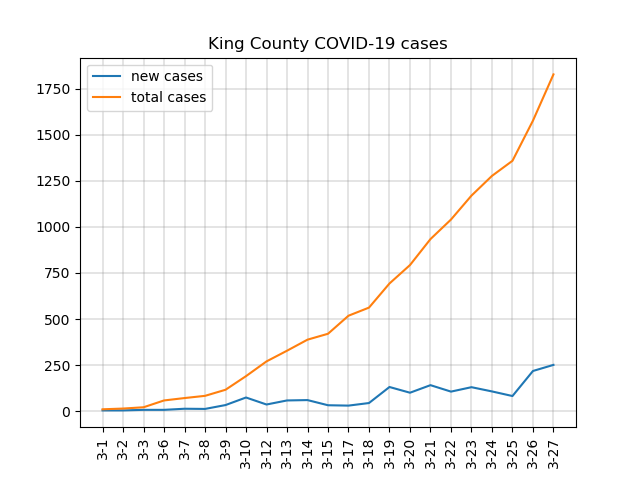
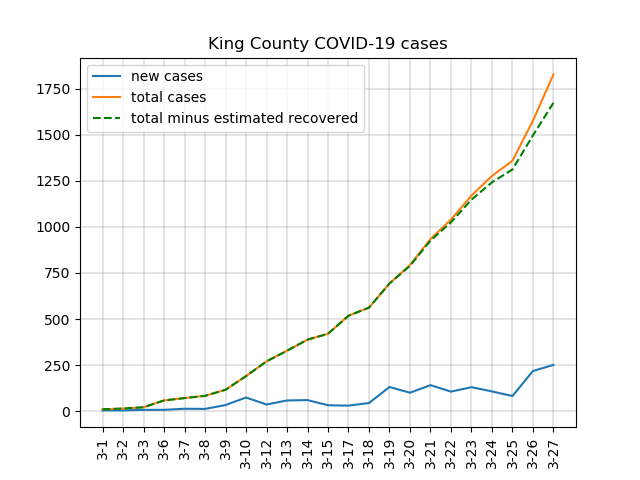
add total minus estimated recovered

diff --git a/parse-xml.py b/parse-xml.py
@@ -38,6 +38,23 @@ num_total_cases.reverse()
 dates.reverse()
 plt.plot(num_new_cases, label="new cases")
 plt.plot(num_total_cases, label="total cases")
+
+def sum_to_14_days_ago(i, list):
+    s = 0
+    if i > 14:
+        s= sum(list[:i-14])
+    return s
+
+def num_recovered_cases(list):
+    # add up the cases per day (new cases) from beginning until current index
+    num_recovered = [sum_to_14_days_ago(i, list) for i in range(len(list))]
+    return num_recovered
+
+num_recovered = num_recovered_cases(num_new_cases)
+print(num_recovered)
+num_total_minus_recovered = [num_total_cases[i] - num_recovered[i] for i in range(len(num_total_cases))]
+
+plt.plot(num_total_minus_recovered, 'g--', label="total minus estimated recovered")
 plt.xticks(np.arange(len(num_total_cases)), dates, rotation=90)
 plt.legend()
 plt.title("King County COVID-19 cases")
